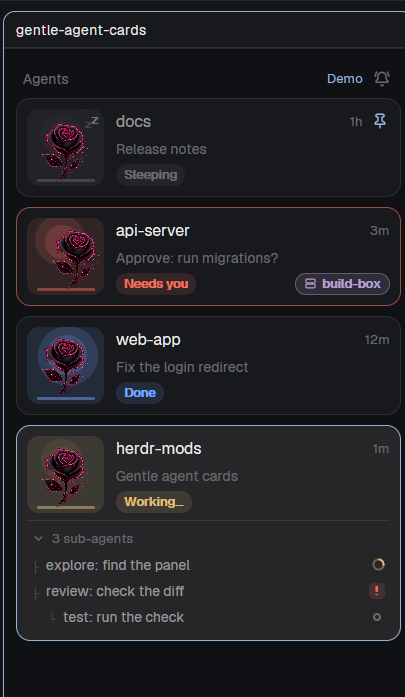
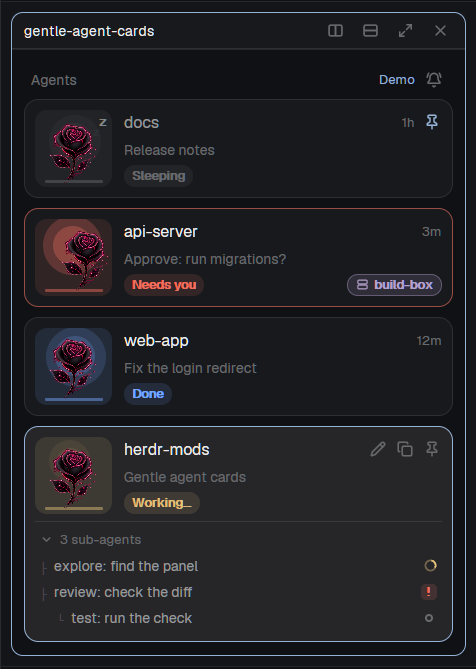
docs: built-with-gentle-ai badge + refreshed preview

diff --git a/README.md b/README.md
@@ -53,6 +53,12 @@ The head "Agents" with "N active · M" and the bell button on the right, then on
 - `mods/gentle-agent-cards/needs-you.svg` is the bell-ring icon of [Lucide](https://lucide.dev) (ISC license).
 - In the spirit of [Agent Cards](https://github.com/dougcunha/herdr-mods/tree/main/agent-cards-app) by Douglas Cunha.
 
+<p align="center">
+  <a href="https://github.com/Gentleman-Programming/gentle-ai">
+    <img width="220" src="https://raw.githubusercontent.com/Gentleman-Programming/gentle-ai/main/docs/assets/brand/built-with-gentle-ai.png" alt="Built with Gentle-AI" />
+  </a>
+</p>
+
 ## License
 
 MIT. See [LICENSE](LICENSE).
